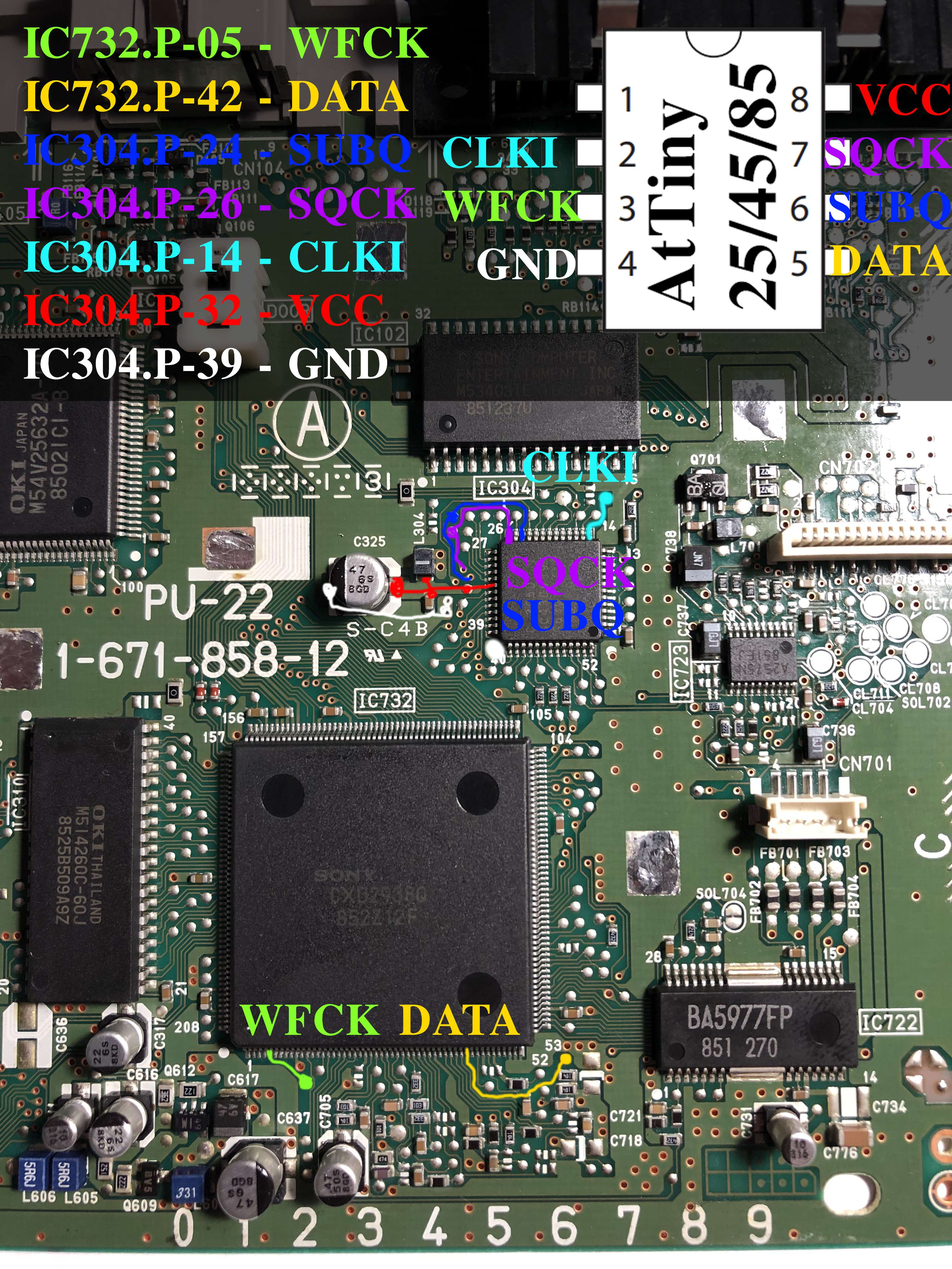
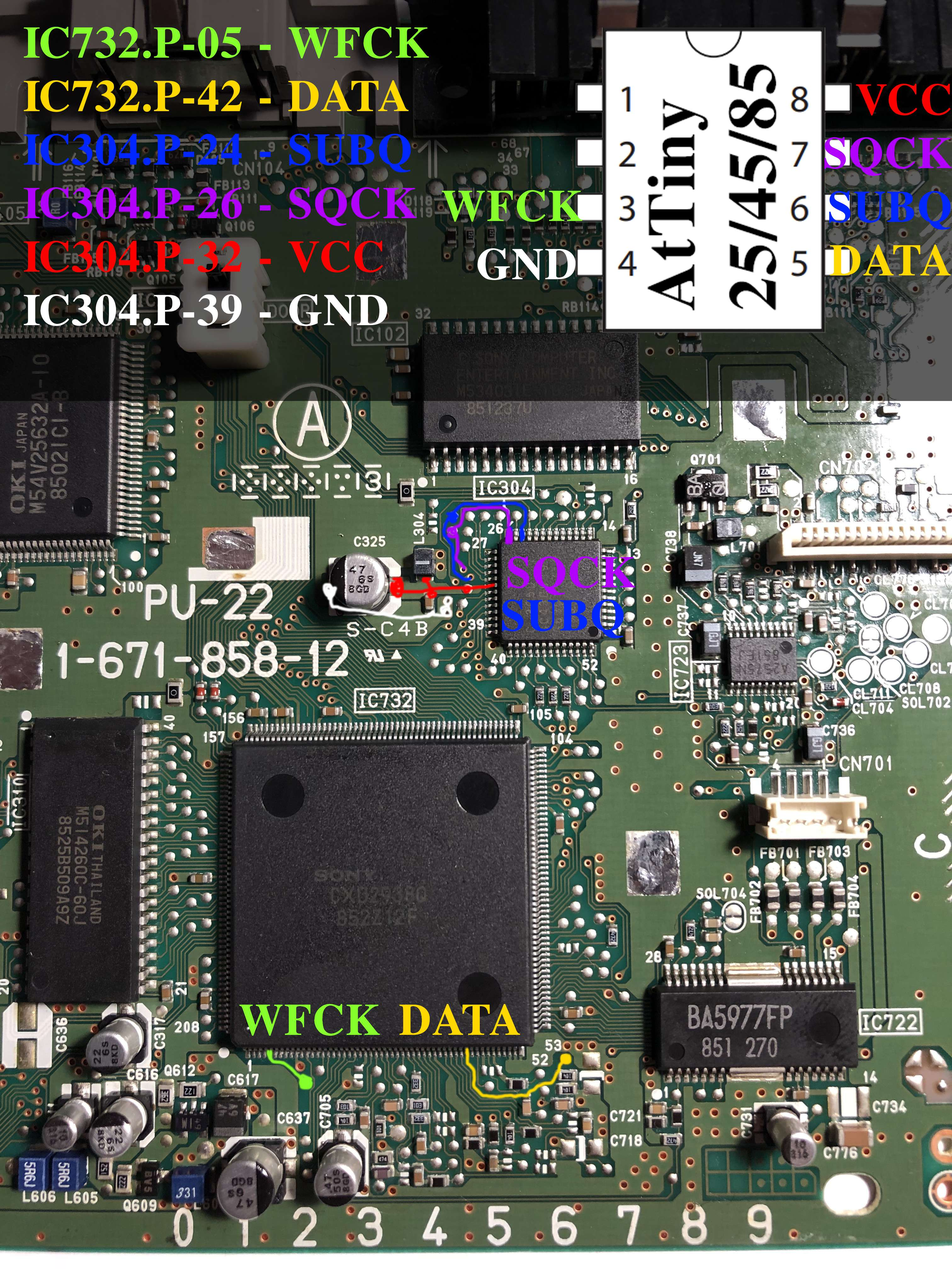
Changed back to internal clock

diff --git a/main.c b/main.c
@@ -1,6 +1,4 @@
-#define F_CPU 4190000UL
-//#define F_CPU 8000000UL
-//CHECK FREQUENCY!
+#define F_CPU 8000000UL
 
 #include <avr/signature.h>
 #include <avr/fuse.h>
@@ -11,39 +9,30 @@
 
 FUSES =
 {
-	.low = 0xE0,		//e0 External clock, slow start-up, clock NOT divided
-	.high = 0xCD,		//BOD=2.7V, Watchdog always on //value=0x4D for BOD=2.7V, Watchdog always on AND RESET DISABLE
-	.extended = 0xFF,	//Default, Self Programming Disabled
+	.low = 0xE2,		//Internal 8MHz clock, slow start-up, clock NOT divided
+	.high = 0xCD,		//BOD=2.7V, Watchdog always on AND value=0xED for RESET DISABLE and SERIAL PROGRAM DOWNLOAD
+	.extended = 0xFF,	//Default
 };
 
 //Region Definition
-//#define REGION_EU	0b11101010
-//#define REGION_US	0b11111010
-//#define REGION_JP	0b11011010
 #define REGION_EU 0
 #define REGION_US 1
 #define REGION_JP 2
-//#define SCEData0	0b00000010
-//#define SCEData2	0b01011101
-//#define SCEData3	0b01001011
-//#define SCEData4	0b11001001
-//#define SCEData5	0b01011001
 
 #define REGION_SELECTED REGION_EU	//Change here according to your region
 
 #if REGION_SELECTED == REGION_EU
-#define REGION_BIT_0	0
-#define REGION_BIT_1	1
+	#define REGION_BIT_0	0
+	#define REGION_BIT_1	1
 #elif REGION_SELECTED == REGION_US
-#define REGION_BIT_0	1
-#define REGION_BIT_1	1
+	#define REGION_BIT_0	1
+	#define REGION_BIT_1	1
 #elif REGION_SELECTED == REGION_JP
-#define REGION_BIT_0	1
-#define REGION_BIT_1	0
+	#define REGION_BIT_0	1
+	#define REGION_BIT_1	0
 #endif
 
 //regionCode array stores data that is injected to fake an original disk
-//uint8_t regionCode[] = {SCEData5, SCEData4, SCEData3, SCEData2, REGION_SELECTED, SCEData0};
 uint8_t regionCodeArray[44] = {
 	1,0,0,1,1,0,1,0,
 	1,0,0,1,0,0,1,1,
@@ -80,19 +69,19 @@ uint8_t regionCodeArray[44] = {
 #define NUMBER_OF_BYTES_IN_PACKET 12						//How many bytes make up a packet?
 #define NUMBER_OF_LOW_SAMPLES F_CPU/3200					//How often to sample the high state of WFCK before stopping
 #define NUMBER_OF_HIGH_SAMPLES (NUMBER_OF_LOW_SAMPLES*10)	//How often to sample the high state of WFCK before stopping
-#define HYSTERESIS_THRESHOLD 14
+#define HYSTERESIS_THRESHOLD 14								//How often do we have to parse a correct packet before starting the first injection
 
 #if MICROSECONDS_TO_TIMER_TICKS(US_BETWEEN_BITS) > 255
-#error Value of US_BETWEEN_BITS too large
+	#error Value of US_BETWEEN_BITS too large
 #endif
 #if MICROSECONDS_TO_TIMER_TICKS(US_SUBQ_TIMEOUT) > 255
-#error Value of US_SUBQ_TIMEOUT too large
+	#error Value of US_SUBQ_TIMEOUT too large
 #endif
 #if NUMBER_OF_LOW_SAMPLES > 65535
-#error Value of NUMBER_OF_LOW_SAMPLES too large
+	#error Value of NUMBER_OF_LOW_SAMPLES too large
 #endif
 #if NUMBER_OF_HIGH_SAMPLES > 65535
-#error Value of NUMBER_OF_HIGH_SAMPLES too large
+	#error Value of NUMBER_OF_HIGH_SAMPLES too large
 #endif
 
 uint8_t pu22mode = 0;								//Variable to keep track of if board is either PU-22 or older revision
@@ -102,41 +91,38 @@ uint8_t scpos = 0;									//scbuf position
 uint8_t hysteresis = 0;								//Hysteresis counter for injecting region codes
 
 //--------------------------------------------------
-//     Returns the bit inside "regionCode"
-//     at position "bitIndex", across bytes
-//--------------------------------------------------
-
-//uint8_t regionCodeBit(uint8_t bitIndex)
-//{
-//	uint8_t thisByte = regionCode[bitIndex >> 3];	//bitIndex divided by 8 returns the byte in which bitIndex is located
-//	uint8_t mask = (1 << (bitIndex%8));				//bitIndex modulo 8 returns the location of bitIndex inside the current byte
-//	return (0 != (thisByte & mask));				//Read only the bit selected by bitIndex and return a "boolean"
-//}
-
-//--------------------------------------------------
 //     Function to inject SCEX data
 //--------------------------------------------------
-
 void inject_SCEX(void)
 {
 	for (uint8_t bit_counter = 0; bit_counter < 44; bit_counter++)
 	{
-		TCNT0 = 0;			//Reset counter to measure time
-		while(TCNT0 <= MICROSECONDS_TO_TIMER_TICKS(US_BETWEEN_BITS)){
-			if (regionCodeArray[bit_counter]){//regionCodeBit(bit_counter)){
-				if (pu22mode){
-					OUTPUT(DATA); //Set DATA as output and copy WFCK to DATA
-					if(READ(WFCK)){
+		TCNT0 = 0;												//Reset counter to measure time
+		while(TCNT0 <= MICROSECONDS_TO_TIMER_TICKS(US_BETWEEN_BITS))
+		{
+			if (regionCodeArray[bit_counter])
+			{
+				if (pu22mode)
+				{
+					OUTPUT(DATA);								//Set DATA as output and copy WFCK state onto DATA line
+					if(READ(WFCK))
+					{
 						HIGH(DATA);
-						}else{
+					}
+					else
+					{
 						LOW(DATA);
 					}
-					}else{ //PU-18 or lower mode
-					INPUT(DATA);
 				}
-				}else{
-				OUTPUT(DATA); //Set DATA as output
-				LOW(DATA); //Set DATA low
+				else
+				{												//PU-18 or lower mode
+					INPUT(DATA);								//Set DATA as input
+				}
+			}
+			else
+			{
+				OUTPUT(DATA);									//Set DATA as output
+				LOW(DATA);										//Set DATA low
 			}
 		}
 	}
@@ -150,26 +136,26 @@ void inject_SCEX(void)
 
 int main(void)
 {
-	cli(); //Disable interrupts globally
+	cli();	//Disable interrupts globally
 	
-	//Clock speed is defined by CLKI
-	CLKPR = (1<<CLKPCE); //Enable changing of clock prescaler
-	CLKPR = (0<<CLKPS3)|(0<<CLKPS2)|(0<<CLKPS1)|(0<<CLKPS0); //Prescaler 1
+	//Clock setup, not needed if DIV8 fuse is (correctly) disabled
+	CLKPR = (1<<CLKPCE);										//Enable changing of clock prescaler
+	CLKPR = (0<<CLKPS3)|(0<<CLKPS2)|(0<<CLKPS1)|(0<<CLKPS0);	//Prescaler 1 =>8MHz
 
 	//Watchdog setup
-	wdt_enable(WDTO_2S);	//Timout=2s, Action=reset
+	wdt_enable(WDTO_2S);										//Timout=2s, Action=reset
 	
 	//Power reduction setup
-	PRR = (1<<PRTIM1)|(1<<PRUSI)|(1<<PRADC);	//Disable Timer1, USI, ADC
-	ACSR = (1<<ACD);							//Disable analog comparator
+	PRR = (1<<PRTIM1)|(1<<PRUSI)|(1<<PRADC);					//Disable Timer1, USI, ADC
+	ACSR = (1<<ACD);											//Disable analog comparator
 	
 	//Timer0 setup
-	//"Normal"-Mode counter without interrupts
-	TCCR0A = 0;				//Clear registers
-	TCCR0B = (1 << CS02);	//Prescaler 256, one timer tick every 256 clock cycles, clear other registers
-	TCNT0  = 0;				//Count = 0
+																//"Normal"-Mode counter without interrupts
+	TCCR0A = 0;													//Clear registers
+	TCCR0B = (1 << CS02);										//Prescaler 256, one timer tick every 256 clock cycles, clear other registers
+	TCNT0  = 0;													//Count = 0
 
-	sei(); //Enable interrupts globally
+	sei();	//Enable interrupts globally
 
 	//Port setup, redefining inputs just to be sure
 	INPUT(SQCK);	//make input
@@ -177,6 +163,7 @@ int main(void)
 	INPUT(DATA);	//make input
 	INPUT(WFCK);	//make input
 	INPUT(CLKI);	//make input
+	HIGH(CLKI);		//enable pullup
 	INPUT(RESET);	//make input
 	HIGH(RESET);	//enable pullup
 
@@ -184,55 +171,65 @@ int main(void)
 	while (!READ(SQCK));	//Is normally pulled high after WFCK, so wait for that to enlarge bootup delay
 	while (!READ(WFCK));	//Either high if board <PU-20 or oscillating if board >=PU-20
 
-	// Board detection
-	// WFCK: __-----------------------  // this is a PU-7 .. PU-20 board and WFCK is GATE!
-	// WFCK: __-_-_-_-_-_-_-_-_-_-_-_-  // this is a PU-22 or newer board!
+	//Board revision detection
+	//WFCK: __-----------------------  //This is a PU-7 .. PU-20 board and WFCK is GATE!
+	//WFCK: __-_-_-_-_-_-_-_-_-_-_-_-  //This is a PU-22 or newer board!
 	uint16_t lows = 0;
 	uint16_t highs = 0;
-	while(highs < NUMBER_OF_HIGH_SAMPLES) {		//If WFCK was high a lot, assume not PU-22
-		if (READ(WFCK)){
-			highs++;					//Increment high counter
-			pu22mode = 0;
-		}else{
-			lows++;						//Increment low counter
-			if(lows >= NUMBER_OF_LOW_SAMPLES){	//If WFCK was low often enough, assume PU-22 and break loop
+	while(highs < NUMBER_OF_HIGH_SAMPLES)		//If WFCK was high a lot, assume not PU-22
+	{
+		if (READ(WFCK))							//If WFCK is high
+		{
+			highs++;							//Increment high counter
+		}
+		else									//If WFCK is high
+		{
+			lows++;								//Increment low counter
+			if(lows >= NUMBER_OF_LOW_SAMPLES)	//If WFCK was low often enough, assume PU-22 and break loop
+			{
 				pu22mode = 1;
 				break;
 			}
 		}
 	}
-	//At this point, pu22mode is 1 for a PU-22 board and 0 otherwise
+	//At this point, pu22mode is 1 for a >=PU-22 board and 0 otherwise
 	
 	//Main loop
-	while(1){
-		start:
-		wdt_reset();	//Reset Watchdog, to show that we are still alive
-		scpos = 0;		//reset SUBQ packet position
-		//Capture bytes without larger gap in between ==> complete SUBQ transmission
-		while(scpos < NUMBER_OF_BYTES_IN_PACKET){
-			for (uint8_t bitpos = 0; bitpos < 8; bitpos++) {
-				
-				TCNT0 = 0;
-				while (READ(SQCK)) {	//Wait for clock to go low
-					//Timeout resets capture during bootup and in between packages
-					if (TCNT0 >= MICROSECONDS_TO_TIMER_TICKS(US_SUBQ_TIMEOUT)){
-						goto start;
+	while(1)
+	{
+		//--------------------------------------------------
+		//     SUBQ capture
+		//--------------------------------------------------
+		start:																		//(Re-)Start of SUBQ packet capture
+		wdt_reset();																//Reset Watchdog, to show that we are still alive
+		scpos = 0;																	//reset SUBQ packet position
+		while(scpos < NUMBER_OF_BYTES_IN_PACKET)									//Capture NUMBER_OF_BYTES_IN_PACKET bytes (without larger gap in between)
+		{
+			for (uint8_t bitpos = 0; bitpos < 8; bitpos++)							//Each byte consists of 8 bits
+			{	
+				TCNT0 = 0;															//Reset Timeout
+				while (READ(SQCK))													//Wait for clock to go low
+				{
+					if (TCNT0 >= MICROSECONDS_TO_TIMER_TICKS(US_SUBQ_TIMEOUT))		//Timeout resets capture during boot-up and in between packets
+					{
+						goto start;													//If timeout happens because SQCK was high for US_SUBQ_TIMEOUT, restart from scratch
 					}
 				}
-
-				while (!READ(SQCK));	//Wait for clock to go high
-
-				bitbuf[bitpos] = READ(SUBQ);
+				while (!READ(SQCK));												//Wait for clock to go high
+				bitbuf[bitpos] = READ(SUBQ);										//Read SUBQ state into array for each bit in current byte
 			}
-			//8 bits read, not combining them into byte storage		
-			scbuf[scpos] = bitbuf[0];
-			for (uint8_t bitpos = 1; bitpos < 8; bitpos++) {
+																					//8 bits read, now combining them into byte storage		
+			scbuf[scpos] = bitbuf[0];												//Copy bit 0, not OR'ed to also reinitialize scbuf[scpos] 
+			for (uint8_t bitpos = 1; bitpos < 8; bitpos++)							//Now OR'ing in the remaining 7 bits from the current byte into scbuf[scpos]
+			{
 				scbuf[scpos] |= (bitbuf[bitpos] << bitpos);
 			}
-			scpos++;
-			
-			
+			scpos++;																//Increment scpos for next byte
 		}
+		
+		//--------------------------------------------------
+		//     Checking last SUBQ capture for content
+		//--------------------------------------------------
 		// check if read head is in wobble area
 		// We only want to unlock game discs (0x41) and only if the read head is in the outer TOC area.
 		// We want to see a TOC sector repeatedly before injecting (helps with timing and marginal lasers).
@@ -254,38 +251,43 @@ int main(void)
 			hysteresis--; //Not a valid packet. Decrease the counter.
 		}
 
+
+		//--------------------------------------------------
+		//     Injection of SCEX code
+		//--------------------------------------------------
 		// hysteresis value "optimized" using very worn but working drive on ATmega328 @ 16Mhz
 		// should be fine on other MCUs and speeds, as the PSX dictates SUBQ rate
-		if(hysteresis >= HYSTERESIS_THRESHOLD){
+		if(hysteresis >= HYSTERESIS_THRESHOLD)
+		{
 			// If the read head is still here after injection, resending should be quick.
 			// Hysteresis naturally goes to 0 otherwise (the read head moved).
 			hysteresis = HYSTERESIS_THRESHOLD-3;
 
-			OUTPUT(DATA);		//Set DATA as output
-			LOW(DATA);			//Set DATA low
+			OUTPUT(DATA);							//Set DATA as output
+			LOW(DATA);								//Set DATA low
 			
-			if(!pu22mode){
-				OUTPUT(WFCK);	//Set WFCK as output
-				LOW(WFCK);		//Set WFCK low
+			if(!pu22mode)							//If board revision <PU-22
+			{
+				OUTPUT(WFCK);						//Set WFCK as output
+				LOW(WFCK);							//Set WFCK low
 			}
 
-			// inject symbols now
 			for(uint8_t injection_counter = 0; injection_counter < NUMBER_OF_INJECTIONS; injection_counter++)
-			{
+			{										// inject symbols now
 				inject_SCEX();						//Injection
 				_delay_us(US_BETWEEN_INJECTIONS);	//Delay between injections
 			}
 
-			if(!pu22mode){
-				INPUT(WFCK); 	//Set WFCK as input
+			if(!pu22mode)							//If board revision <PU-22
+			{
+				INPUT(WFCK);						//Set WFCK as input
 			}
 
-			INPUT(DATA); 		//Set DATA as input
-			}else{
-			//small delay, which can be necessary in case the MCU loops too quickly
-			//and picks up SUBQ trailing end
-			//INVESTIGATE!
-			_delay_us(1000);
+			INPUT(DATA); 							//Set DATA as input
+		}
+		else
+		{
+			_delay_us(1000);	//small delay, which can be necessary in case the MCU loops too quickly and picks up SUBQ trailing end
 		}
 	}
 	return 0;
